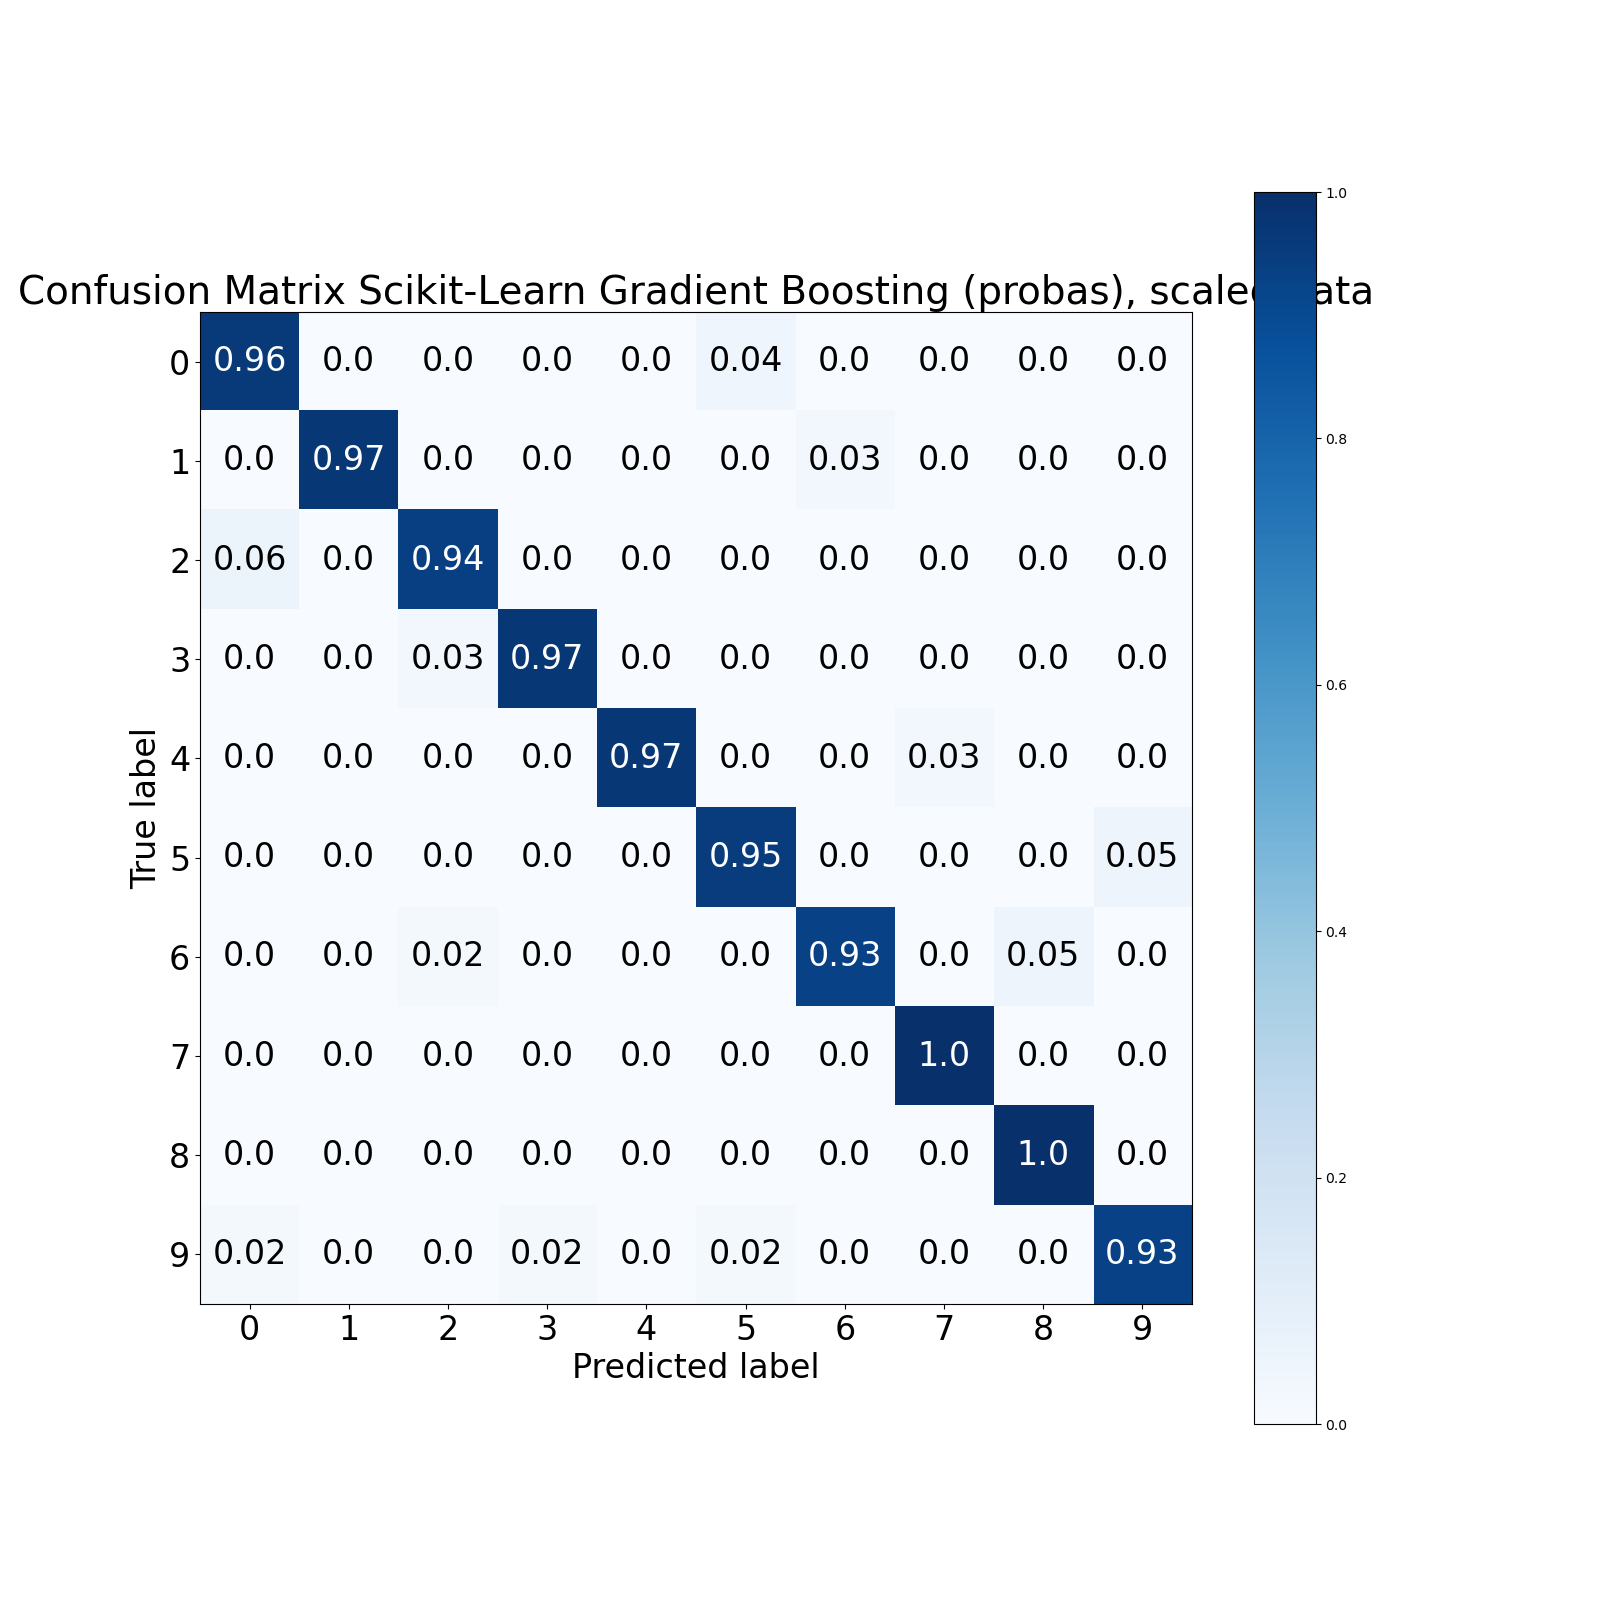
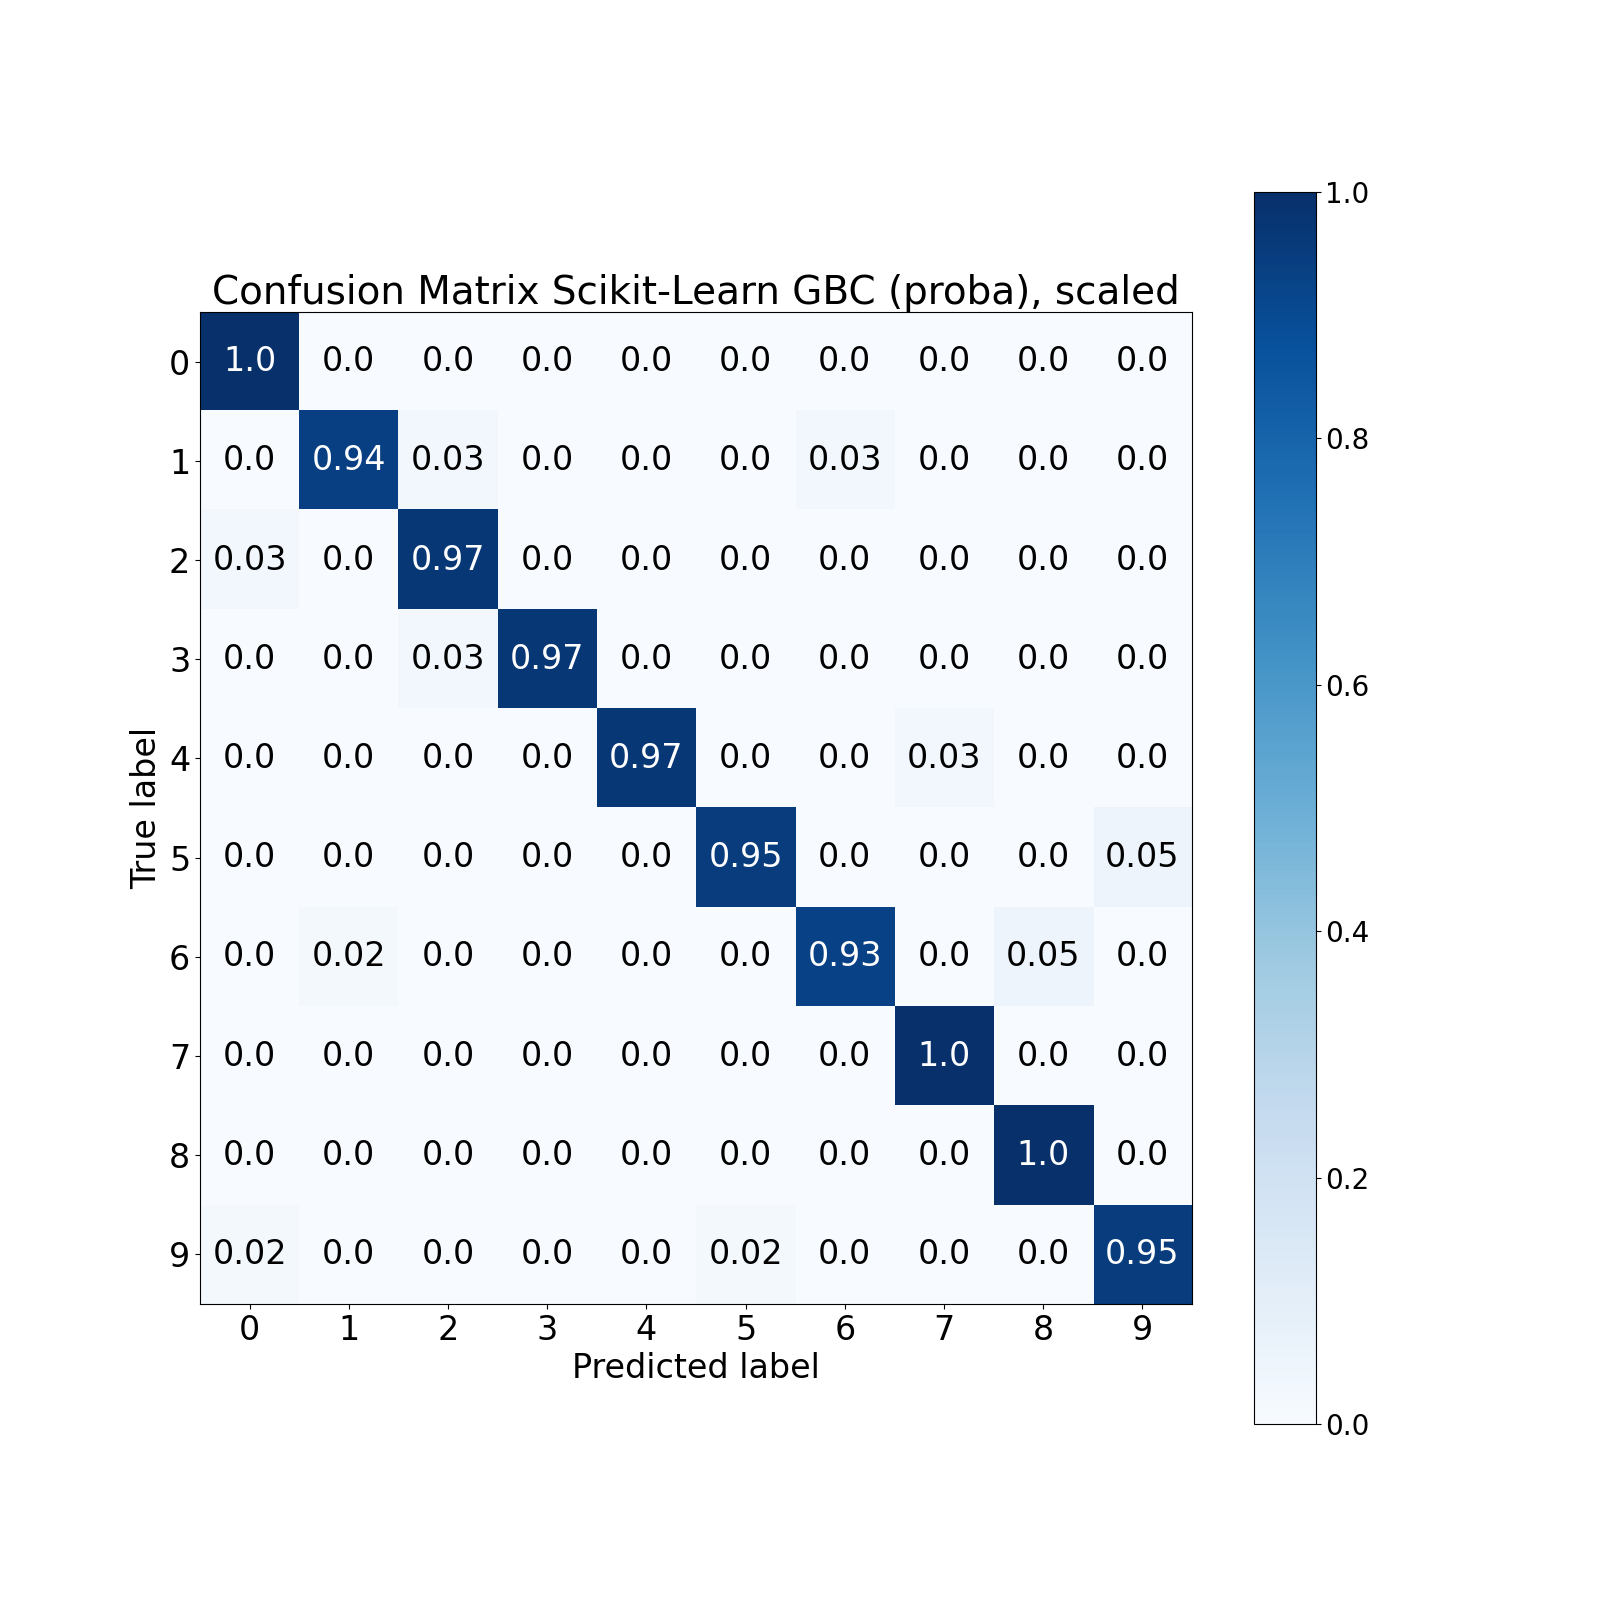
Made CM% figs better readable

diff --git a/GradientBoosting/gradient_boosting.py b/GradientBoosting/gradient_boosting.py
@@ -59,7 +59,9 @@ plt.savefig(results_path)
 plt.close()
 
 # ROC Curve
-skplt.metrics.plot_confusion_matrix(z_test, z_pred, normalize=True, title='Confusion Matrix Scikit-Learn Gradient Boosting (probas), unscaled data', figsize=(16,16), text_fontsize=24, title_fontsize=28)
+skplt.metrics.plot_confusion_matrix(z_test, z_pred, normalize=True, title='Confusion Matrix Scikit-Learn GBC (proba), unscaled', figsize=(16,16), text_fontsize=24, title_fontsize=28)
+cax = plt.gcf().axes[-1]
+cax.tick_params(axis='y', labelsize=20) 
 results_path = f'scikitlearn_unscaled_CM%_Boosting.png'
 plt.savefig(results_path)
 plt.close()
@@ -97,7 +99,9 @@ plt.savefig(results_path)
 plt.close()
 
 # ROC Curve
-skplt.metrics.plot_confusion_matrix(z_test, z_pred, normalize=True, title='Confusion Matrix Scikit-Learn Gradient Boosting (probas), scaled data', figsize=(16,16), text_fontsize=24, title_fontsize=28)
+skplt.metrics.plot_confusion_matrix(z_test, z_pred, normalize=True, title='Confusion Matrix Scikit-Learn GBC (proba), scaled', figsize=(16,16), text_fontsize=24, title_fontsize=28)
+cax = plt.gcf().axes[-1]
+cax.tick_params(axis='y', labelsize=20) 
 results_path = f'scikitlearn_scaled_CM%_Boosting.png'
 plt.savefig(results_path)
 plt.close()
@@ -138,7 +142,9 @@ plt.savefig(results_path)
 plt.close()
 
 # ROC Curve
-skplt.metrics.plot_confusion_matrix(z_test, z_pred, normalize=True, title='Confusion Matrix on handmade Gradient Boosting(proba), unscaled data', figsize=(16,16), text_fontsize=24, title_fontsize=28)
+skplt.metrics.plot_confusion_matrix(z_test, z_pred, normalize=True, title='Confusion Matrix on handmade GBC (proba), unscaled', figsize=(16,16), text_fontsize=24, title_fontsize=28)
+cax = plt.gcf().axes[-1]
+cax.tick_params(axis='y', labelsize=20) 
 results_path = f'handmade_unscaled_CM%_Boosting.png'
 plt.savefig(results_path)
 plt.close()
@@ -172,7 +178,9 @@ plt.savefig(results_path)
 plt.close()
 
 # ROC Curve
-skplt.metrics.plot_confusion_matrix(z_test, z_pred, normalize=True, title='Confusion Matrix on handmade Gradient Boosting (proba), scaled data', figsize=(16,16), text_fontsize=24, title_fontsize=28)
+skplt.metrics.plot_confusion_matrix(z_test, z_pred, normalize=True, title='Confusion Matrix on handmade GBC (proba), scaled', figsize=(16,16), text_fontsize=24, title_fontsize=28)
+cax = plt.gcf().axes[-1]
+cax.tick_params(axis='y', labelsize=20) 
 results_path = f'handmade_scaled_CM%_Boosting.png'
 plt.savefig(results_path)
 plt.close()
